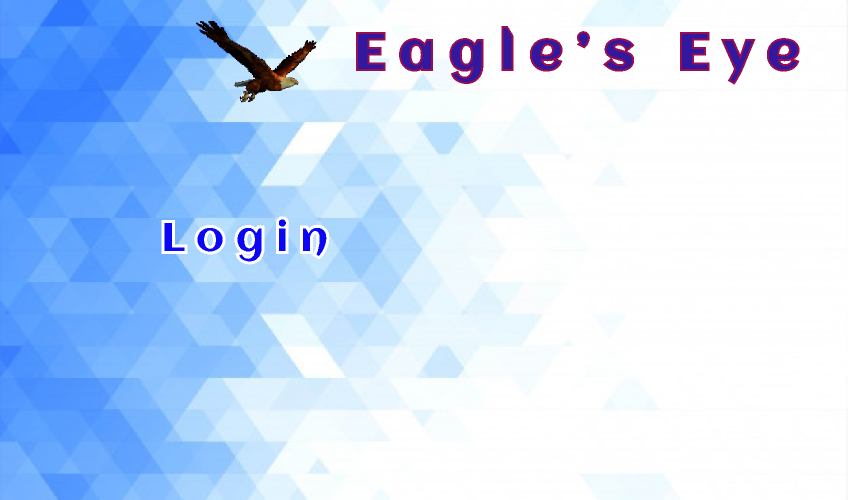
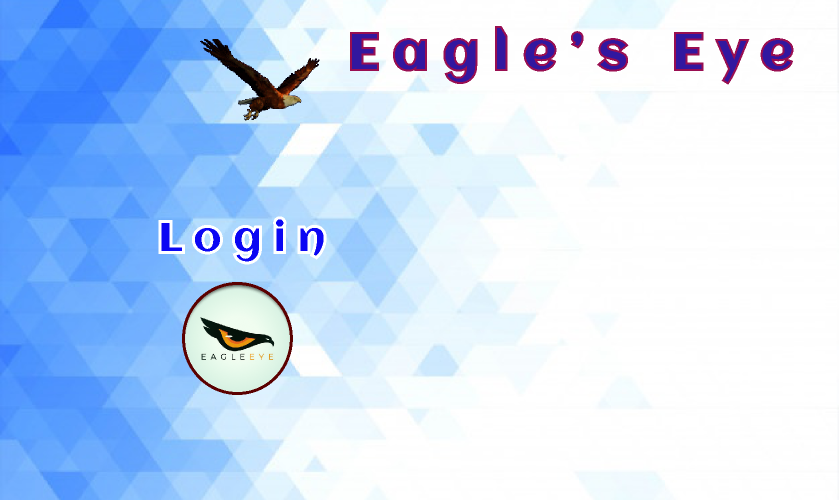
change

diff --git a/GUI/Home/window2.py b/GUI/Home/window2.py
@@ -1,19 +1,30 @@
 from tkinter import *
+import os
 
 
-def btn_clicked():
-    print("Button Clicked")
+PATH = os.getcwd()
+PATH=PATH.split("\GUI")[0]
+os.chdir(PATH)
+import Device as dv
+dv.webcam(5)
 
+def btn_clicked0():
+    print("Button Clicked0")
+    
+def btn_clicked1():
+    print("Button Clicked1")
+    window.destroy()
 
 window = Tk()
 
-window.geometry("1000x711")
-window.configure(bg = "#000000")
+
+window.geometry("1200x620")
+window.configure(bg = "#ffffff")
 canvas = Canvas(
     window,
-    bg = "#000000",
-    height = 711,
-    width = 1000,
+    bg = "#ffffff",
+    height = 620,
+    width = 1200,
     bd = 0,
     highlightthickness = 0,
     relief = "ridge")
@@ -21,12 +32,12 @@ canvas.place(x = 0, y = 0)
 
 background_img = PhotoImage(file = f"background.png")
 background = canvas.create_image(
-    500.0, 355.5,
+    600.5, 313.0,
     image=background_img)
 
 
 canvas.create_rectangle(
-    343, 123, 343+640, 123+480,
+    561, 70, 561+640, 70+480,
     fill = "#c4c4c4",
     outline = "")
 
@@ -35,11 +46,11 @@ b0 = Button(
     image = img0,
     borderwidth = 0,
     highlightthickness = 0,
-    command = btn_clicked,
+    command = btn_clicked0,
     relief = "flat")
 
 b0.place(
-    x = 265, y = 630,
+    x = 211, y = 344,
     width = 207,
     height = 64)
 
@@ -48,7 +59,7 @@ b1 = Button(
     image = img1,
     borderwidth = 0,
     highlightthickness = 0,
-    command = btn_clicked,
+    command = btn_clicked1,
     relief = "flat")
 
 b1.place(

diff --git a/GUI/login/window.py b/GUI/login/window.py
@@ -1,17 +1,6 @@
 
 
 
-# importing sys
-import os
-  
-# adding Folder_2 to the system path
-
-os.chdir(r"C\Desktop\The-Eagle_eye\openCV")
-
-import Device as dev
-dev.Cam(5)
-
-
 from tkinter import *
 
 
@@ -21,6 +10,8 @@ window.title("Login Page")
 def btn_clicked():
     print(entry0.get())
     print(entry1.get())
+    window.destroy()
+    
     
 window.geometry("839x500")
 window.configure(bg = "#ffffff")
@@ -79,6 +70,7 @@ entry1_bg = canvas.create_image(
     image = entry1_img)
 
 entry1 = Entry(
+    show="*",
     bd = 0,
     bg = "#a7d4ff",
     highlightthickness = 0)

diff --git a/Device.py b/Device.py
@@ -1,16 +1,23 @@
 
 import cv2
+import numpy as np
 
 
 
-def Cam(cam=0):
+def webam(cam=0):
     a=cv2.VideoCapture(cam)
+    
     width= a.get(cv2.CAP_PROP_FRAME_WIDTH)
     height= a.get(cv2.CAP_PROP_FRAME_HEIGHT)
     print(height,width)
     while True:
         sucess,img =a.read()
+        cv2.flip(img,-1)
+        print(np.array(img).shape)
+        
         cv2.imshow("video",img)
         if cv2.waitKey(20 ) & 0xFF == ord("q"):
             break
 
+
+webam(5)

diff --git a/main.py b/main.py
@@ -1,13 +1,11 @@
-import cv2
+import os
 
 
-#enter check 0 t0 5 for ur webcam
-a=cv2.VideoCapture(5)
+PATH = os.getcwd()
+os.chdir(PATH+"\GUI\login")
 
+import window
 
-while True:
-    sucess,img =a.read()
-    cv2.imshow("video",img)
-    if cv2.waitKey(20 ) & 0xFF == ord("q"):
-        break
+os.chdir(PATH+"\GUI\Home")
 
+import window2
